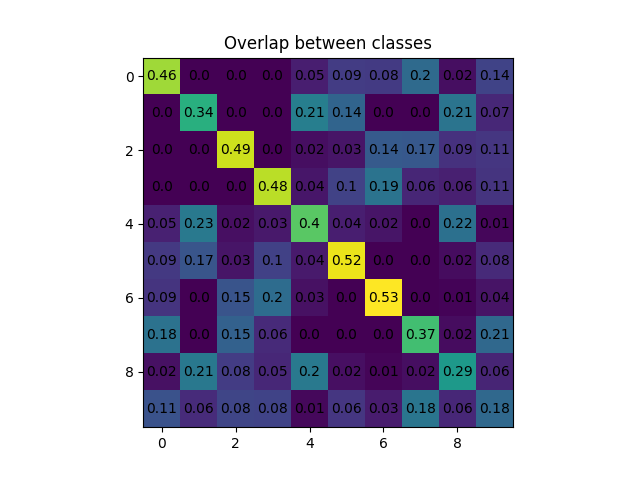
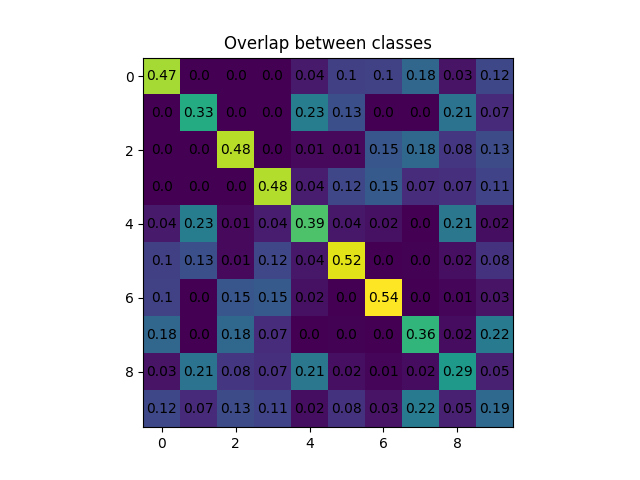
chor: small change

diff --git a/plots.py b/plots.py
@@ -184,11 +184,11 @@ def overlap_plots(brain, no_data_items=100):
         
     for i in range(10):
         for j in range(10):
-            ax.text(i,j, round(overlap_plot_matrix[i,j], 2), va='center', ha='center')
+            ax.text(i,j, round(overlap_plot_matrix.T[i,j], 2), va='center', ha='center')
 
-    plt.imshow(overlap_plot_matrix, cmap='viridis', interpolation='nearest')
-    plt.title('Overlap between classes')
-    plt.savefig('plots/overlap.png')
+    ax.imshow(overlap_plot_matrix, cmap='viridis', interpolation='nearest')
+    ax.set_title('Overlap between classes')
+    fig.savefig('plots/overlap.png')
 
 if __name__ == '__main__':
     start = time.time()
